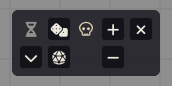
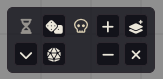
feat: add bulk add button for adding multiple dice at once
Opens a dialog to enter a count. If the total exceeds pool size, the
pool fills, auto-rolls, and continues adding the remainder until all
dice are placed. Visible in expanded GM view only.

diff --git a/src/scripts/tension-pool-app.ts b/src/scripts/tension-pool-app.ts
@@ -25,6 +25,7 @@ export class TensionPoolApp extends HandlebarsApplicationMixin(ApplicationV2)<Te
       rollPool: TensionPoolApp._onRollPool,
       clearPool: TensionPoolApp._onClearPool,
       customRoll: TensionPoolApp._onCustomRoll,
+      bulkAdd: TensionPoolApp._onBulkAdd,
       togglePool: TensionPoolApp._onTogglePool,
     },
   };
@@ -179,6 +180,45 @@ export class TensionPoolApp extends HandlebarsApplicationMixin(ApplicationV2)<Te
     const max = getSetting("poolSize");
     await announce("fade", 0, max);
     await setSetting("diceCount", 0);
+  }
+
+  static async _onBulkAdd(this: TensionPoolApp) {
+    const max = getSetting("poolSize");
+    const input = await foundry.applications.api.DialogV2.prompt({
+      window: { title: game.i18n!.localize("TENSION_POOL.BulkAdd.Title") },
+      content: `<form><div class="form-group"><label>${game.i18n!.localize("TENSION_POOL.BulkAdd.Label")}</label><input type="number" name="count" value="1" min="1" max="50" autofocus></div></form>`,
+      ok: {
+        label: game.i18n!.localize("TENSION_POOL.AddDie"),
+        callback: (_event: any, button: any) => {
+          return parseInt(button.form.elements.count.value, 10);
+        },
+      },
+    });
+    if (!input || input <= 0) return;
+    let remaining = Math.min(input, 50);
+
+    while (remaining > 0) {
+      const current = getSetting("diceCount");
+      const space = max - current;
+      const toAdd = Math.min(remaining, space);
+
+      if (toAdd > 0) {
+        const newCount = current + toAdd;
+        await setSetting("diceCount", newCount);
+        remaining -= toAdd;
+
+        if (newCount >= max) {
+          await announce("break", newCount, max);
+          await TensionPoolApp._rollAndClear(max);
+        } else {
+          await announce("rise", newCount, max);
+        }
+      } else {
+        // Pool is already full — roll and clear, then continue
+        await announce("break", current, max);
+        await TensionPoolApp._rollAndClear(max);
+      }
+    }
   }
 
   static async _onTogglePool(this: TensionPoolApp) {

diff --git a/README.md b/README.md
@@ -70,9 +70,10 @@ The tension pool appears as a floating, draggable widget on screen. Drag it anyw
 - **Roll** (dice icon) — Roll the current pool and clear it. Rolling with an empty pool rolls 1 die
 - **Custom Roll** (d20 icon) — Roll any number of tension dice without affecting the pool. Opens a dialog to enter the dice count
 - **+** / **-** — Add or remove a die from the pool
+- **Bulk Add** (layer-plus icon) — Add multiple dice at once. If the total exceeds the pool size, the pool fills up, auto-rolls, and continues adding the remainder
 - **Clear** (x icon) — Empty the pool without rolling
 
-**Compact view** hides roll, custom roll, and clear — showing just a single icon with the dice count. The + and - buttons remain available.
+**Compact view** hides roll, custom roll, bulk add, and clear — showing just a single icon with the dice count. The + and - buttons remain available.
 
 When the pool reaches its maximum size, it automatically rolls and clears.
 
